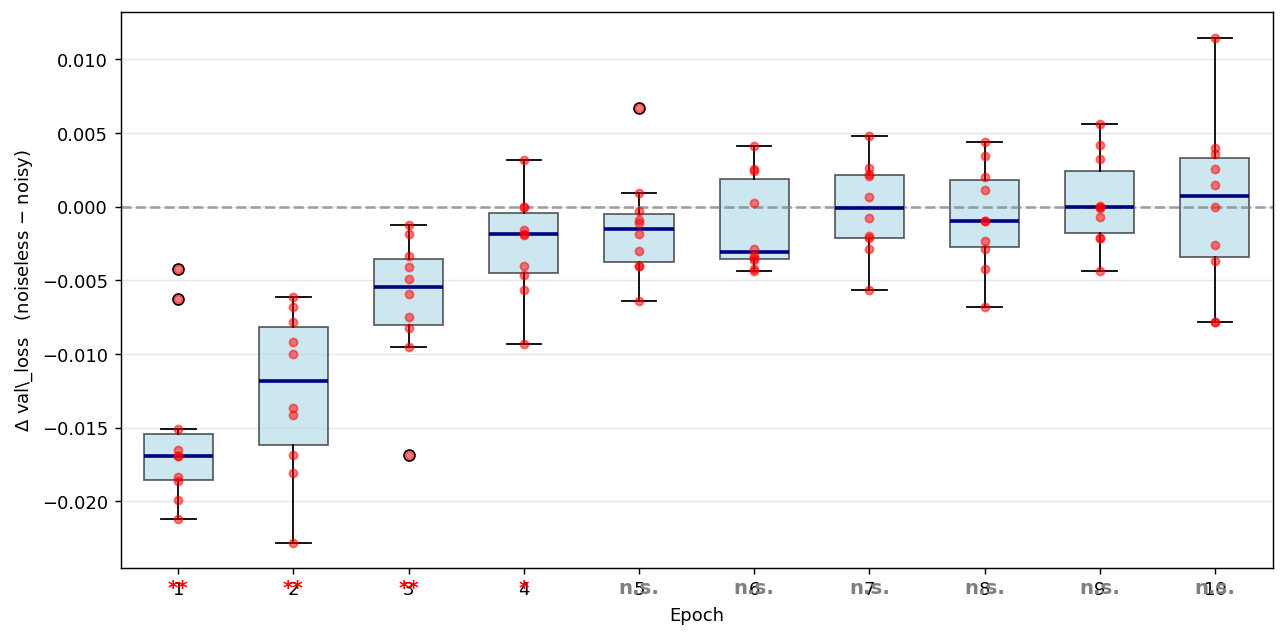
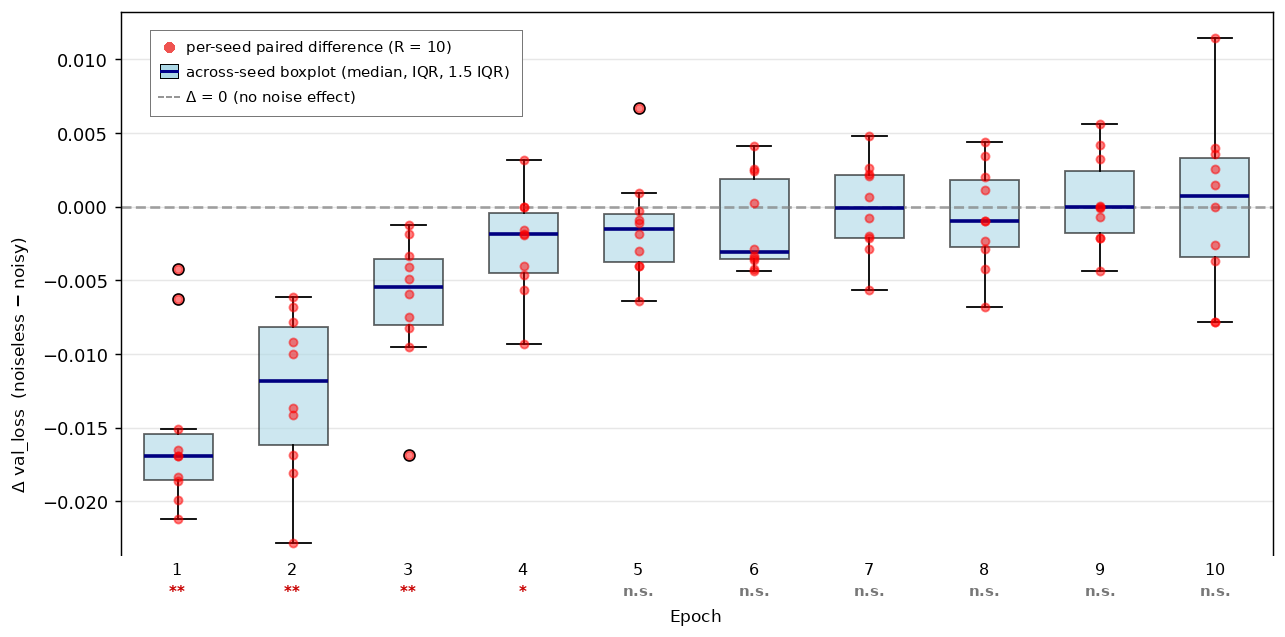
Fig 3.20: repair unreadable axis labels, add legend, rewrite caption; Fig 3.19: fix legend text
Fig 3.20 (noise_resilience_paired_diff): the Wilcoxon significance
markers were typeset ON TOP of the epoch tick labels ('**' over '1',
'n.s.' over '5'...), the y-label showed a stray LaTeX backslash
(val\_loss) and no legend explained the red per-seed dots vs the boxplot
fliers. Surgical PNG repair (data pixels untouched): clean epoch labels
with a separate significance row, corrected y-label, in-axes legend.
Caption rewritten to define every element (paired per-seed dots, boxplot
semantics incl. duplicated outliers, zero line, per-epoch significance).
Aggregate stats cross-checked by pixel-extracting the per-seed values
(ep1-3 mean -1.1e-2, p<<1e-4; ep5-10 n.s.) - consistent with the text.
Fig 3.19 (noise_resilience_curves): legend text 'ibm\_fez' -> 'ibm_fez'
in all four panels (same escape leak).
NOTE: generator scripts for both figures are not in qh_algorithms
(provenance gap, as for Figs 2.8/2.16/2.17).

Claude-Session: https://claude.ai/code/session_01DD9m6UXVTKwPczyf4WWcwE

diff --git a/chapters/quantum_algorithms.tex b/chapters/quantum_algorithms.tex
@@ -1968,7 +1968,7 @@ The two branches do exhibit a measurable difference during the first three epoch
 \begin{figure}[tb]
   \centering
   \includegraphics[width=0.95\linewidth]{chapters/qa_figures/noise_resilience_paired_diff.png}
-  \caption{Paired difference $\Delta_{\mathrm{val\_loss}} = \mathrm{NL} - \mathrm{N}$, per epoch and per seed (red dots). Boxplots show the $R=10$ distribution; horizontal labels indicate significance level under two-sided paired Wilcoxon test (\textbf{**} $p<0.01$, \textbf{*} $p<0.05$, n.s.\ otherwise).}
+  \caption{Per-epoch paired differences of the validation loss between the noiseless (NL) and noisy (N) branches, $\Delta_{\mathrm{val\_loss}} = \mathrm{NL} - \mathrm{N}$. Each red dot is one paired observation: the same seed trained under both branches ($R=10$ dots per epoch); negative values mean the noisy branch has the larger loss. Light-blue boxplots summarise the across-seed distribution (dark-blue line: median; box: interquartile range; whiskers: $1.5\times$IQR; black-edged dots: boxplot outliers, duplicating the corresponding per-seed dots). The grey dashed line at $\Delta=0$ marks the no-noise-effect level. Under each epoch number, the marker reports the two-sided paired Wilcoxon significance for that epoch: \textbf{**} $p<0.01$, \textbf{*} $p<0.05$, n.s.\ otherwise. The noise-induced transient of epochs 1--3 (\textbf{**}), marginal at epoch 4 (\textbf{*}), is fully absorbed from epoch 5 onwards.}
   \label{fig:noise_paired_diff}
 \end{figure}
 
